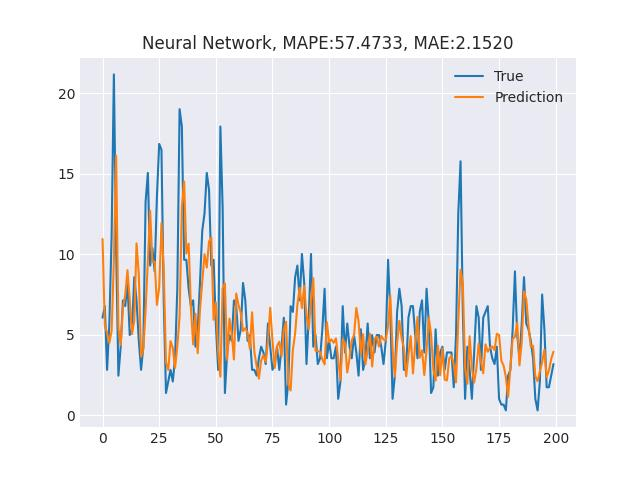
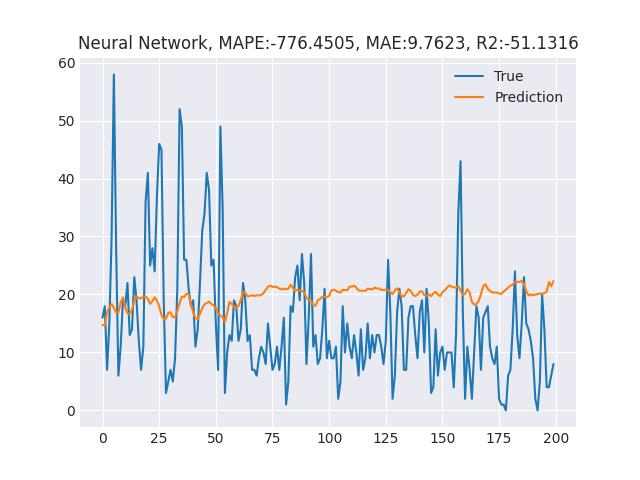
update pipeline

diff --git a/main/train.py b/main/train.py
@@ -10,8 +10,18 @@ import torch.nn.functional as F
 from sklearn.preprocessing import MinMaxScaler
 from models.ANN import ANN
 from tqdm.auto import trange
+from sklearn.metrics import r2_score
 
+"""
+TODO-List
+ANN - Single, Multi channel(O)
+LSTM - Stateful
+------
+, Stateless ()
+Transformer - PatchTST
+------
 
+"""
 class TimeSeriesDataset(torch.utils.data.Dataset):
     '''
     TODO(영준)
@@ -42,16 +52,18 @@ def mae(y_pred, y_true):
 def main(cfg):
     ################ 1. Dataset Load  ################
     dataset_setting = cfg.get("dataset_setting")
+    use_single_channel = cfg.get("use_single_channel")
     main_csv = dataset_setting.get("main_csv")
     time_axis = dataset_setting.get("time_axis")
     target = dataset_setting.get("target")
     
     data = pd.read_csv(main_csv)
+    if use_single_channel:
+        data = pd.DataFrame(data.loc[:, [target, time_axis]])
     # data_only_pm25 = pd.DataFrame(data.loc[:, ["PM-2.5", "일시"]])
     data[time_axis] = pd.to_datetime(data[time_axis])
     data.index = data[time_axis]
     del data[time_axis]
-    data = data.iloc[50:, :] # TODO: 나중에 없애고 파일 자체를 2018.4 ~ 부터 저장되어있도록 바꾸기
     
     m_data = data.copy()
     m_data = m_data.dropna()
@@ -87,16 +99,11 @@ def main(cfg):
     device = torch.device("cuda" if torch.cuda.is_available() else "cpu")
     
     # hyperparameter
-    c_in = 22 #TODO: 자동으로 설정될 수 있도록
-    ''' 
-    TODO(영준): 자동으로 설정될 수 있도록
-    만약에 입력 포멧이 단일채널이면(c_in=1) shape = (batch_size, lookback_size)
-    멀티채널이면(c_in>1) shape = (batch_size, c_in, lookback_size)
-    if ...:
-        ddd
+    if use_single_channel:
+        c_in = 1
     else:
-        ddd
-    '''
+        x, _ = next(iter(trn_dl))
+        c_in = x.shape[1]
     
     # model stting
     model = cfg.get("model")
@@ -144,7 +151,7 @@ def main(cfg):
             x, y = next(iter(tst_dl))
             x, y = x.flatten(1).to(device), y[:,:,target_column].to(device)
             p = model(x)
-            tst_loss = F.mse_loss(p,y)
+            tst_loss = loss_func(p,y)
         pbar.set_postfix({'loss':trn_loss, 'tst_loss':tst_loss.item()})
     ##################################################
     
@@ -163,7 +170,7 @@ def main(cfg):
     ##################################################
     
     #################### 6. Plot #####################
-    plt.title(f"Neural Network, MAPE:{mape(p,y):.4f}, MAE:{mae(p,y):.4f}")
+    plt.title(f"Neural Network, MAPE:{mape(p,y):.4f}, MAE:{mae(p,y):.4f}, R2:{r2_score(p,y):.4f}")
     plt.plot(range(tst_size), y, label="True")
     plt.plot(range(tst_size), p, label="Prediction")
     plt.legend()

diff --git a/main/config.py b/main/config.py
@@ -6,8 +6,9 @@ from models.LSTM import StatefulLSTM, StatelessLSTM
 from models.Transformer import PatchTST
 
 config = {
+  "use_single_channel": True,
   'dataset_setting':{
-    "main_csv": "/home/dataset/complete.csv",
+    "main_csv": "/home/dataset/complete_dataset.csv",
     "time_axis": "일시",
     "target": "PM-2.5"
   },
